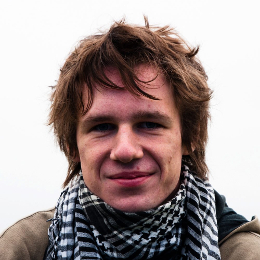
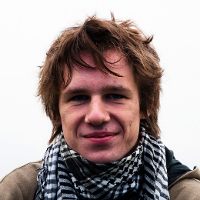
Changed contact image size.

diff --git a/site/css/style.css b/site/css/style.css
@@ -22,11 +22,12 @@
 }
 
 .name {
-    font-size: 2em;
+    margin-top: 10px;
+    font-size: 1.2em;
 }
 
 .link-contact {
-    font-size: 2.6em;
+    font-size: 2.2em;
     text-decoration: none;
     color: black;
 }
